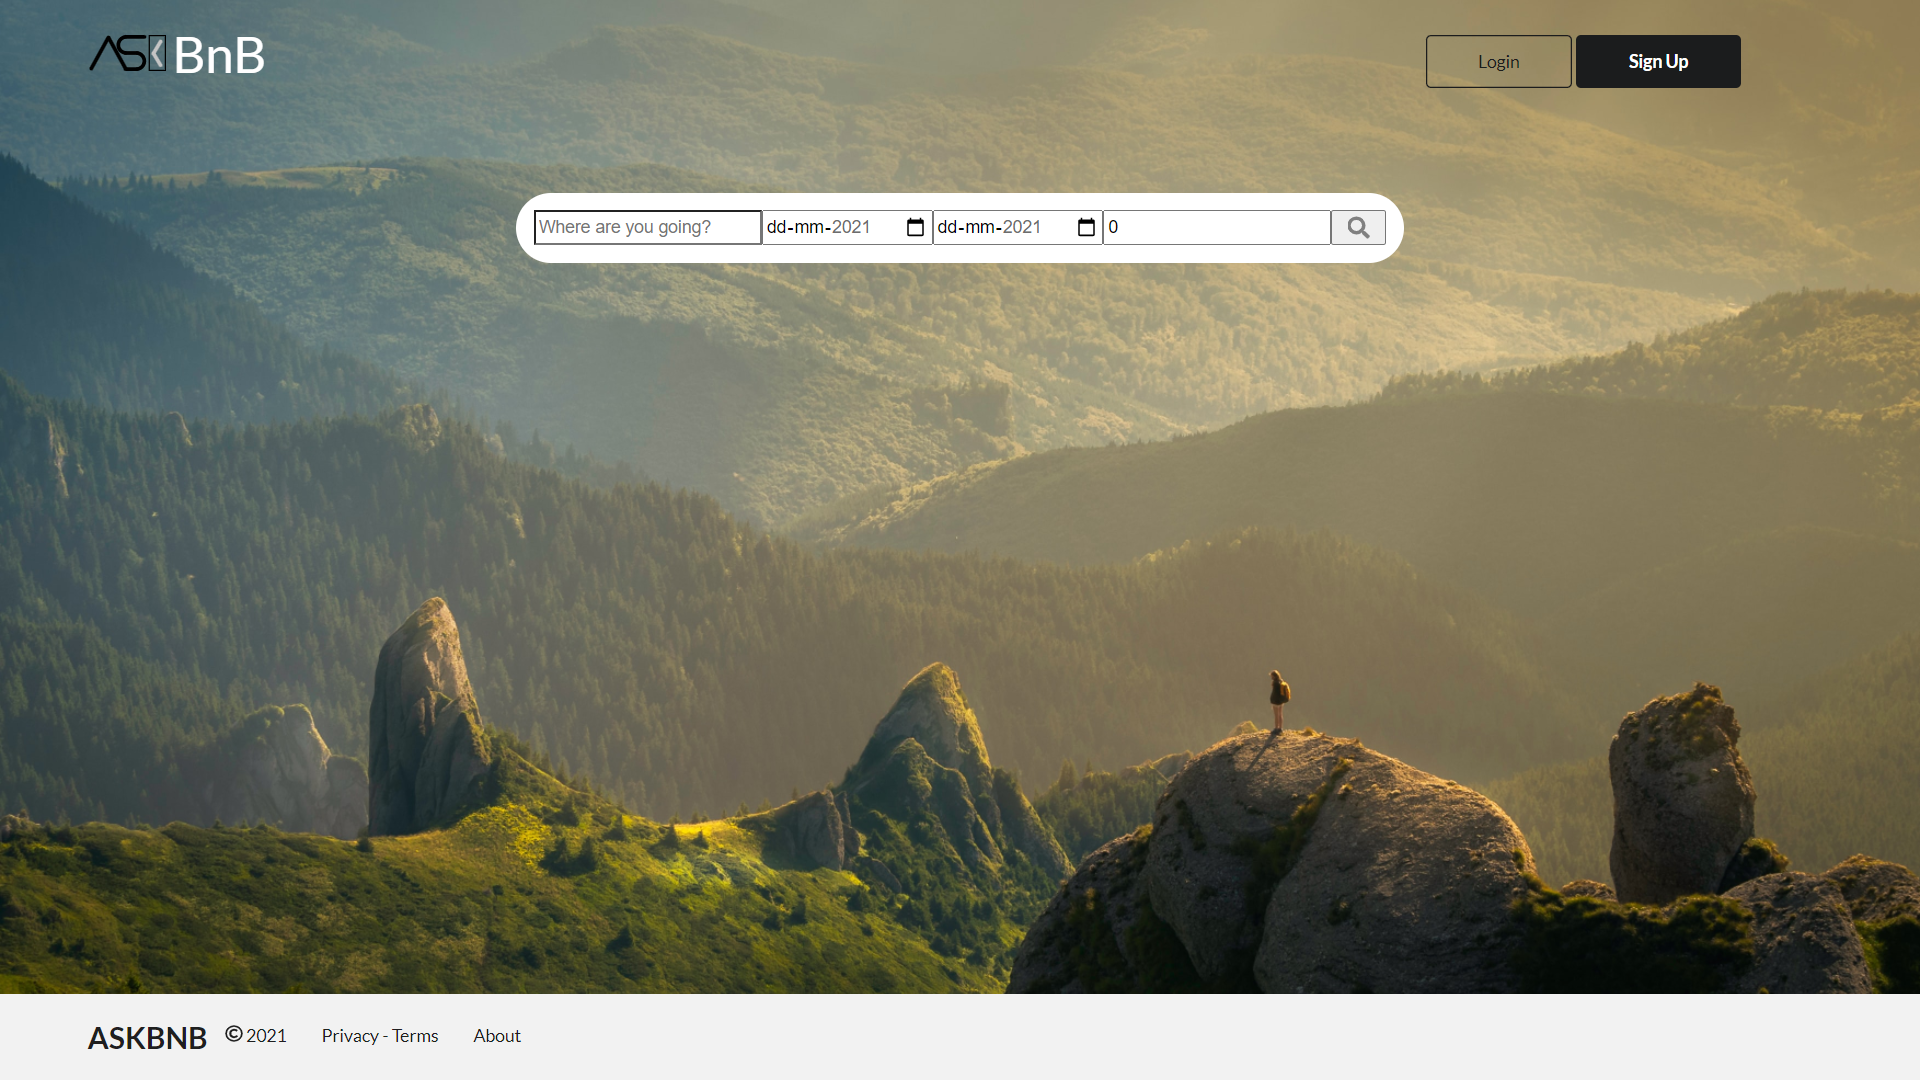
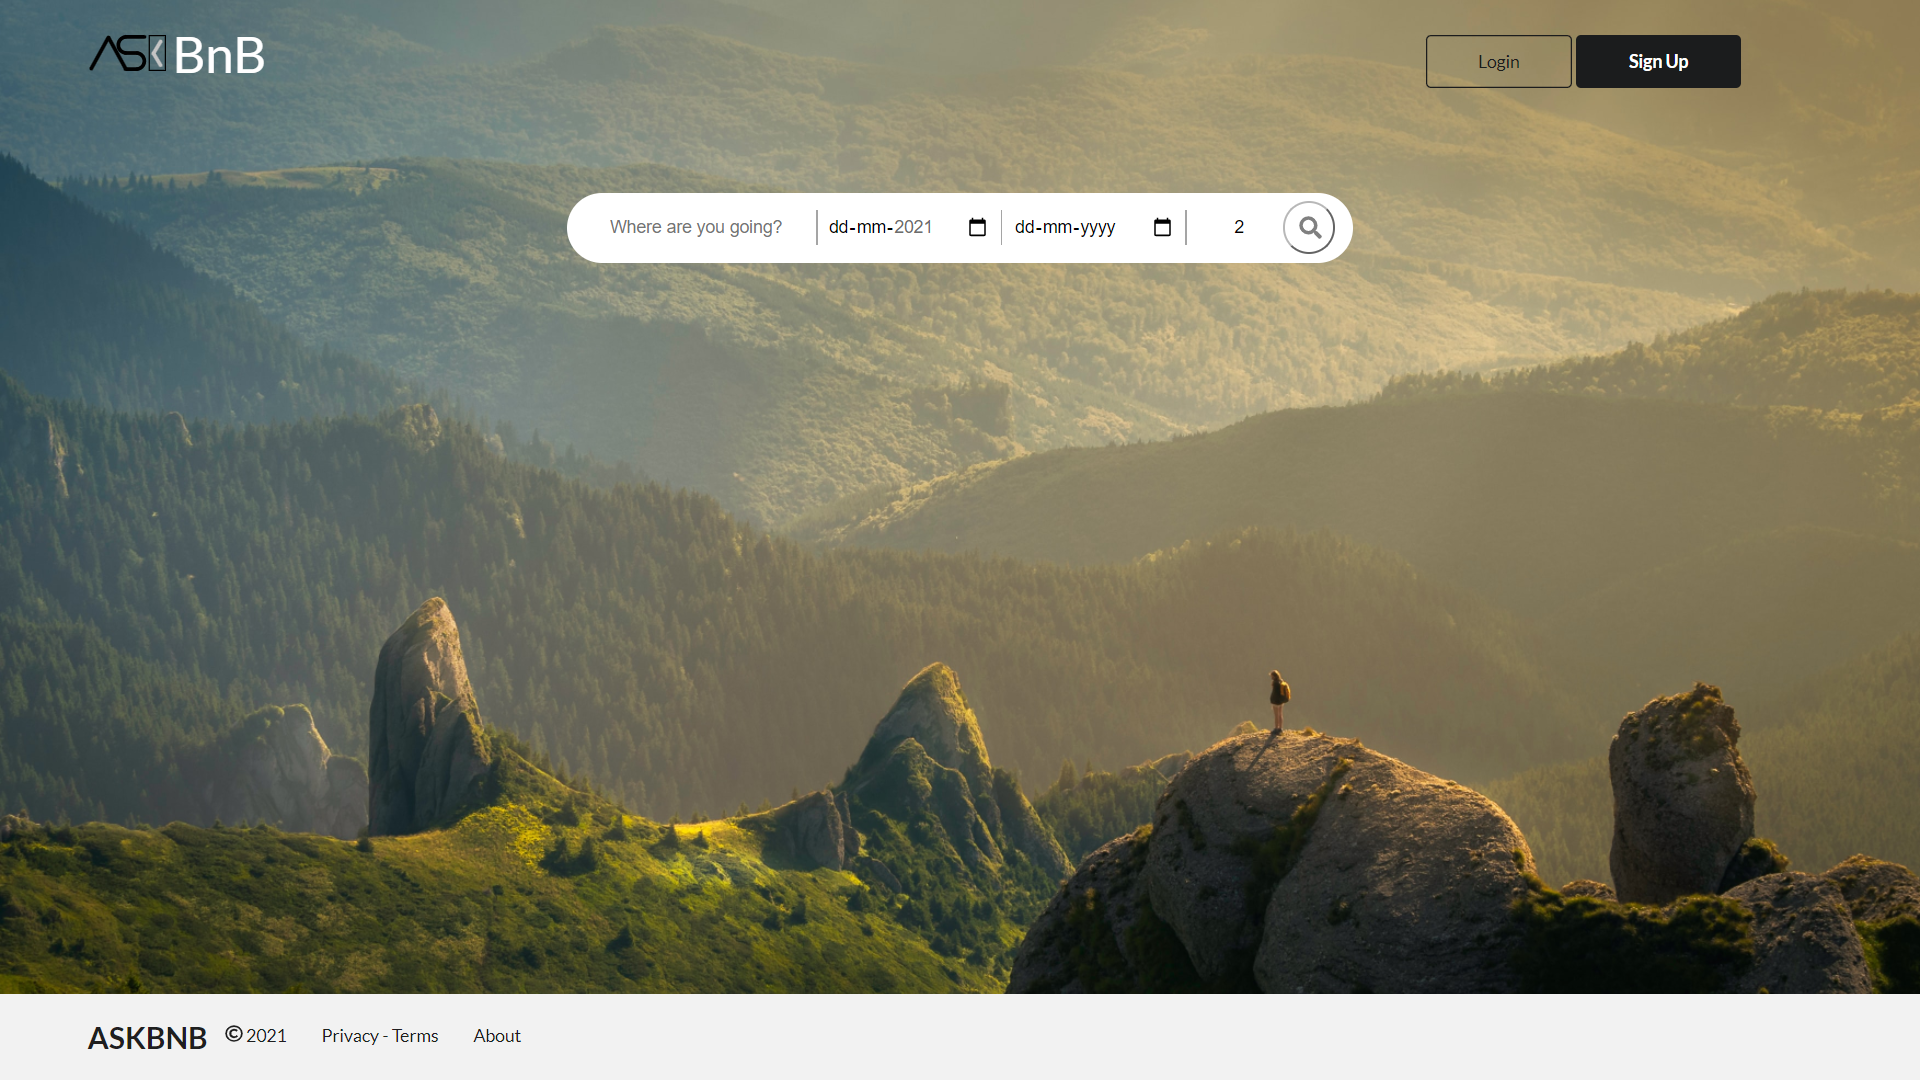
CSS changes

Changed region(s): [[0.25, 0.1528, 0.625, 0.2444], [0.6562, 0.1528, 0.75, 0.2444]]

diff --git a/src/pages/Home/Home.jsx b/src/pages/Home/Home.jsx
@@ -13,7 +13,7 @@ const Home = ({ history, addFilters, hotel: { filter } }) => {
     filter?.startDate || new Date().toLocaleDateString()
   );
   const [endDate, setEndDate] = useState(filter?.endDate || '');
-  const [guests, setGuests] = useState(filter?.guests || 0);
+  const [guests, setGuests] = useState(filter?.guests || 2);
 
   const onSubmit = () => {
     addFilters({ location, startDate, endDate, guests });
@@ -32,7 +32,9 @@ const Home = ({ history, addFilters, hotel: { filter } }) => {
                 placeholder='Where are you going?'
                 value={location}
                 onChange={e => setLocation(e.target.value)}
+                required
               />
+              <div className={styles.vl}></div>
               <input
                 type='date'
                 name='startDate'
@@ -42,22 +44,27 @@ const Home = ({ history, addFilters, hotel: { filter } }) => {
                   .toISOString()
                   .slice(0, -14)}
                 onChange={e => setStartDate(e.target.value)}
+                required
               />
+              <div className={styles.vl}></div>
               <input
                 type='date'
                 name='endDate'
                 value={endDate}
-                min={new Date().toISOString().slice(0, -14)}
+                min={startDate}
                 max={new Date(new Date().setDate(new Date().getDate() + 14))
                   .toISOString()
                   .slice(0, -14)}
                 onChange={e => setEndDate(e.target.value)}
+                required
               />
+              <div className={styles.vl}></div>
               <input
                 type='number'
                 name='guests'
                 value={guests}
                 onChange={e => setGuests(e.target.value)}
+                required
               />
               <button type='submit'>
                 <FaSearch color='grey' className={styles.searchIcon} />

diff --git a/src/pages/Home/Home.module.css b/src/pages/Home/Home.module.css
@@ -46,8 +46,53 @@
   text-overflow: ellipsis !important; */
 }
 
-input:focus {
-  outline: none;
+input {
+  border: 0;
+  text-align: center;
 }
+
+input:focus {
+  border-bottom: 1px solid #8a8a8ac5;
+  outline: none;
+  padding: 0 1rem !important;
+  margin: 0 1rem !important;
+}
+
+.vl {
+  height: 100%;
+  width: 1px;
+  margin: 0 0.5rem;
+  background-color: #8a8a8ac5;
+}
+
+input[type='number'] {
+  width: 5rem;
+  /* color: lightgray;
+  content: attr(placeholder); */
+}
+
+input[type='number']::-webkit-inner-spin-button,
+input[type='number']::-webkit-outer-spin-button {
+  -webkit-appearance: none;
+  -moz-appearance: none;
+  appearance: none;
+  margin: 0;
+}
+
+button[type='submit'] {
+  background-color: #fff;
+  outline: none;
+  border-color: #b8b8b8;
+  border-radius: 2rem;
+  height: 3rem;
+  width: 3rem;
+  position: relative;
+  bottom: 0.5rem;
+}
+
+/* input[type='date']:not(.has-value):before {
+  color: lightgray;
+  content: attr(placeholder);
+} */
 
 /* Input bar container - ends */

diff --git a/src/pages/shared/Header.jsx b/src/pages/shared/Header.jsx
@@ -4,7 +4,7 @@ import styles from './Header.module.css';
 import logo from './ASK.svg';
 
 const Header = ({ transparent }) => {
-  console.log(transparent);
+  // console.log(transparent);
   return (
     <div
       className={`${styles.headerContainer} 

diff --git a/src/pages/shared/Footer.module.css b/src/pages/shared/Footer.module.css
@@ -5,6 +5,8 @@
   padding: 0 5rem;
   background-color: #f2f2f2;
   width: 100%;
+  position: sticky;
+  top: 100%;
 }
 
 .footerContainer > div {
